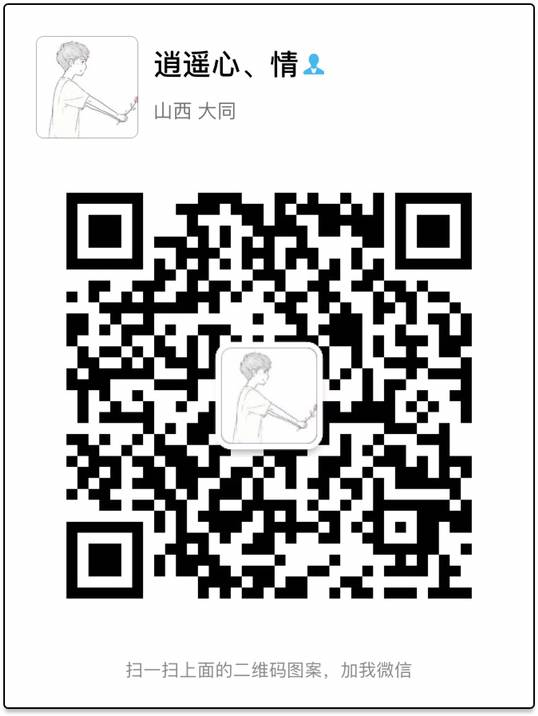
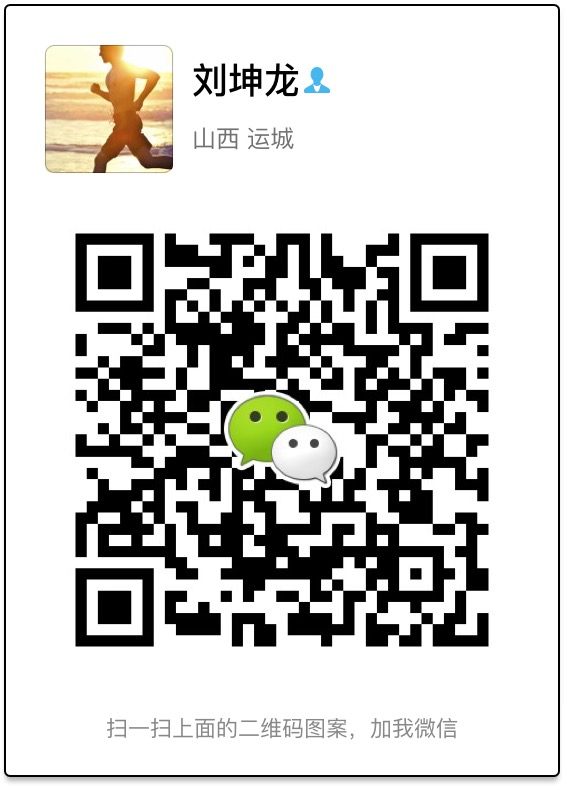
个人主页改

diff --git a/index.html b/index.html
@@ -35,7 +35,7 @@
 </section>
 <!--导航-->
 <div class="topnav">
-        <div class="dzp">Zhipeng Du</div>
+        <div class="dzp">liukunlong</div>
         <ul class="nav">
             <li class="nav-style"><a href="#page1">基本资料</a></li>
             <li><a href="#page2">专业技能</a></li>
@@ -76,11 +76,11 @@
             <span class="span">个人信息</span>
         </div>
         <div id="photo1">
-            <div class="myPhoto"><img src="img/page1/ren.jpg" alt="" style="width: 100%;height: 100%;transform: rotate(90deg)"></div>
+            <div class="myPhoto"><img src="img/page1/me.jpg" alt="" style="width: 100%;height: 100%;transform: rotate(0deg)"></div>
             <div class="myXinxi">
                 <ul>
-                    <li>姓名：杜志鹏</li>
-                    <li>出生日期：1994.10.23</li>
+                    <li>姓名：刘坤龙</li>
+                    <li>出生日期：1993.02.08</li>
                     <li>性别：男</li>
                     <li>民族：汉</li>
                     <li>学历：本科</li>
@@ -93,7 +93,7 @@
             <span class="span">自我介绍</span>
         </div>
         <div id="photo2">
-            <span>本人性格开朗，具有钻研精神和一定的自我学习能力，吃苦耐劳对事情一丝不苟，在企业里和同事可以融洽的相处并合作，为公司带来好的效益。在校期间担任街舞社团社长，具有一定的领导力和策划力，可独立设计完善大型活动，曾与太原凯诺，茂业，老鼠街等多家公司合作，可以正确明了的表达观点。<br>接触过很多外包项目，可快速独立完成指标任务，对于程序有着由衷的热爱并愿意花费更大的精力去不断进步，我会在程序员的道路上走得越来越远。</span>
+            <span>本人性格开朗，具有钻研精神和一定的自我学习能力，吃苦耐劳对事情一丝不苟，在企业里和同事可以融洽的相处并合作，为公司带来好的效益。<br>接触过很多外包项目，可快速独立完成指标任务，对于程序有着由衷的热爱并愿意花费更大的精力去不断进步，我会在程序员的道路上走得越来越远。</span>
             <div class="sanjiao2"></div>
         </div>
         <div class="photo3">
@@ -101,11 +101,11 @@
         </div>
         <div id="photo3">
             <ul>
-                <li>QQ:691878059</li>
-                <li>微信:xiaoyaoduge</li>
-                <li>微博:杜先森的先森</li>
-                <li>email:691878059@qq.com</li>
-                <li>Tel:18235441807</li>
+                <li>QQ:982855239</li>
+                <li>微信:982855239</li>
+                <li>微博:下辈子做猪</li>
+                <li>email:982855239@qq.com</li>
+                <li>Tel:18235442461</li>
             </ul>
             <div class="erweima"><img src="img/page1/er.png" alt="" style="width: 100%;height: 100%"></div>
             <div class="wx"><span>微信</span>扫一扫</div>
@@ -119,8 +119,8 @@
         </div>
         <div class="small-xinxi1">
                 <ul>
-                    <li>姓名：杜志鹏</li>
-                    <li>出生日期：1994.10.23</li>
+                    <li>姓名:刘坤龙</li>
+                    <li>出生日期：1993.02.08</li>
                     <li>性别：男</li>
                     <li>民族：汉</li>
                     <li>学历：本科</li>
@@ -134,11 +134,11 @@
         </div>
         <div class="small-xinxi3">
             <ul>
-                <li>QQ:691878059</li>
-                <li>微信:xiaoyaoduge</li>
-                <li>微博:杜先森的先森</li>
-                <li>email:691878059@qq.com</li>
-                <li>Tel:18235441807</li>
+                <li>QQ:982855239</li>
+                <li>微信:982855239</li>
+                <li>微博:下辈子做猪</li>
+                <li>email:982855239@qq.com</li>
+                <li>Tel:18235442461</li>
             </ul>
             <div class="small-sanjiao"></div>
         </div>
@@ -176,12 +176,12 @@
             <br>掌握 angularJS 框架原理，可以完成无需刷新的单页面应用
             <br>了解Node.js 的工作原理会使用npm环境
         </div>
-        <div class="page2-span2">
+        <!-- <div class="page2-span2">
             <div class="tel"><p>移动端</p></div><br>
             熟练使用zepto.js，Frozen ui，Amaze ui等移动框架进行移动页面的开发
             <br>掌握 移动端编程，会基于流式布局以及 响应式布局 开发基于移动端的页面。
             <br>熟练使用Bootstrap 框架以及轻量级框架 zepto 的使用。
-        </div>
+        </div> -->
     </div>
     <div class="section bgtu3">
         <div class="page3-left">
@@ -258,15 +258,15 @@
         <div class="page4-right">
             <div class="boxBor"></div>
             <div class="jq22">
-                <div class="jq-box"><a href="http://xiaoyaoduge.github.io/textGame/"><div class="zhezhao1">文字游戏</div></a><img src="img/page4/textGame.png" alt="" /></div>
-                <div class="jq-box"><a href="http://xiaoyaoduge.github.io/runningMan/"><div class="zhezhao2">跑酷游戏</div></a><img src="img/page4/run.png" alt="" /></div>
-                <div class="jq-box"><a href="http://xiaoyaoduge.github.io/todolist/"><div class="zhezhao1">备忘录</div></a><img src="img/page4/todolist.png" alt="" /></div>
-                <div class="jq-box"><a href="http://xiaoyaoduge.github.io/huaban/"><div class="zhezhao2">画板</div></a><img src="img/page4/huaban.png" alt="" /></div>
+                <div class="jq-box"><a href="http://liukunlong19930208.github.io/snake/"><div class="zhezhao1">贪吃蛇游戏</div></a><img src="img/page4/tan.jpg" alt="" /></div>
+                <div class="jq-box"><a href="http://liukunlong19930208.github.io/wuziqi/"><div class="zhezhao2">五子棋</div></a><img src="img/page4/wuziqi.jpg" alt="" /></div>
+                <div class="jq-box"><a href="http://liukunlong19930208.github.io/gome/"><div class="zhezhao1">国美</div></a><img src="img/page4/gm.jpg" alt="" /></div>
+                <div class="jq-box"><a href="http://lkl123.duapp.com/jingdong/"><div class="zhezhao2">京东</div></a><img src="img/page4/jd.jpg" alt="" /></div>
                 <div class="jq-box" style="border: none"><div class="clockBox"></div></div>
-                <div class="jq-box"><a href="http://xiaoyaoduge.github.io/iphone/"><div class="zhezhao2">iphone官网</div></a><img src="img/page4/iphone.jpg" alt="" /></div>
-                <div class="jq-box"><a href="http://xiaoyaoduge.github.io/baidu/"><div class="zhezhao1">百度舆情</div></a><img src="img/page4/baidu.png" alt="" /></div>
-                <div class="jq-box"><a href="http://xiaoyaoduge.github.io/tmall/"><div class="zhezhao2">天猫</div></a><img src="img/page4/tmall.png" alt="" /></div>
-                <div class="jq-box"><a href="http://xiaoyaoduge.github.io/yintai/"><div class="zhezhao1">银泰</div></a><img src="img/page4/yintai.png" alt="" /></div>
+                <div class="jq-box"><a href="http://liukunlong19930208.github.io/icloud/"><div class="zhezhao2">icloud</div></a><img src="img/page4/icloud.jpg" alt="" /></div>
+                <div class="jq-box"><a href="http://liukunlong19930208.github.io/baiduyuqing/"><div class="zhezhao1">百度舆情</div></a><img src="img/page4/baidu.png" alt="" /></div>
+                <div class="jq-box"><a href="http://liukunlong19930208.github.io/tianmao/"><div class="zhezhao2">天猫</div></a><img src="img/page4/tmall.png" alt="" /></div>
+                <div class="jq-box"><a href="http://liukunlong19930208.github.io/yintai/"><div class="zhezhao1">银泰</div></a><img src="img/page4/yintai.png" alt="" /></div>
             </div>
         </div>
         <!--<div class="page4-hide">-->
